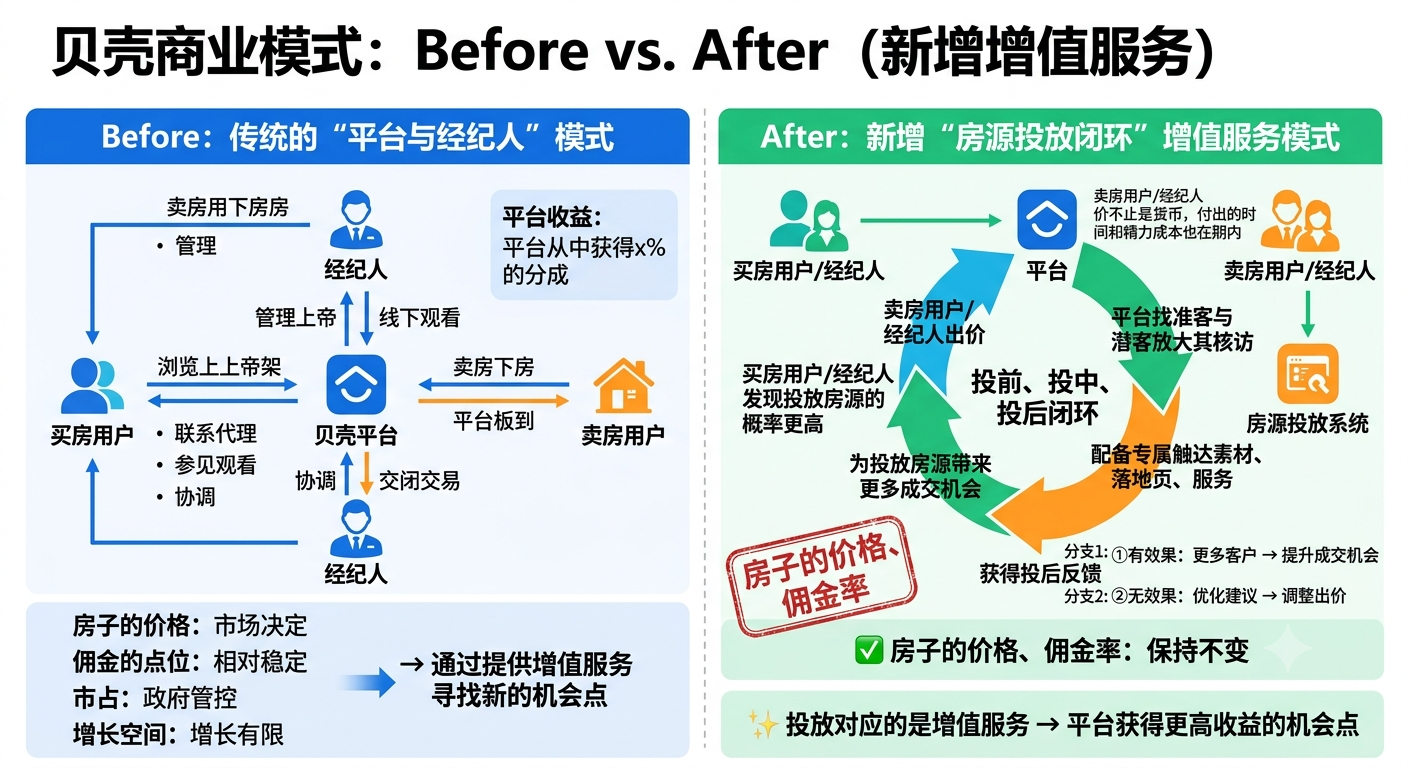
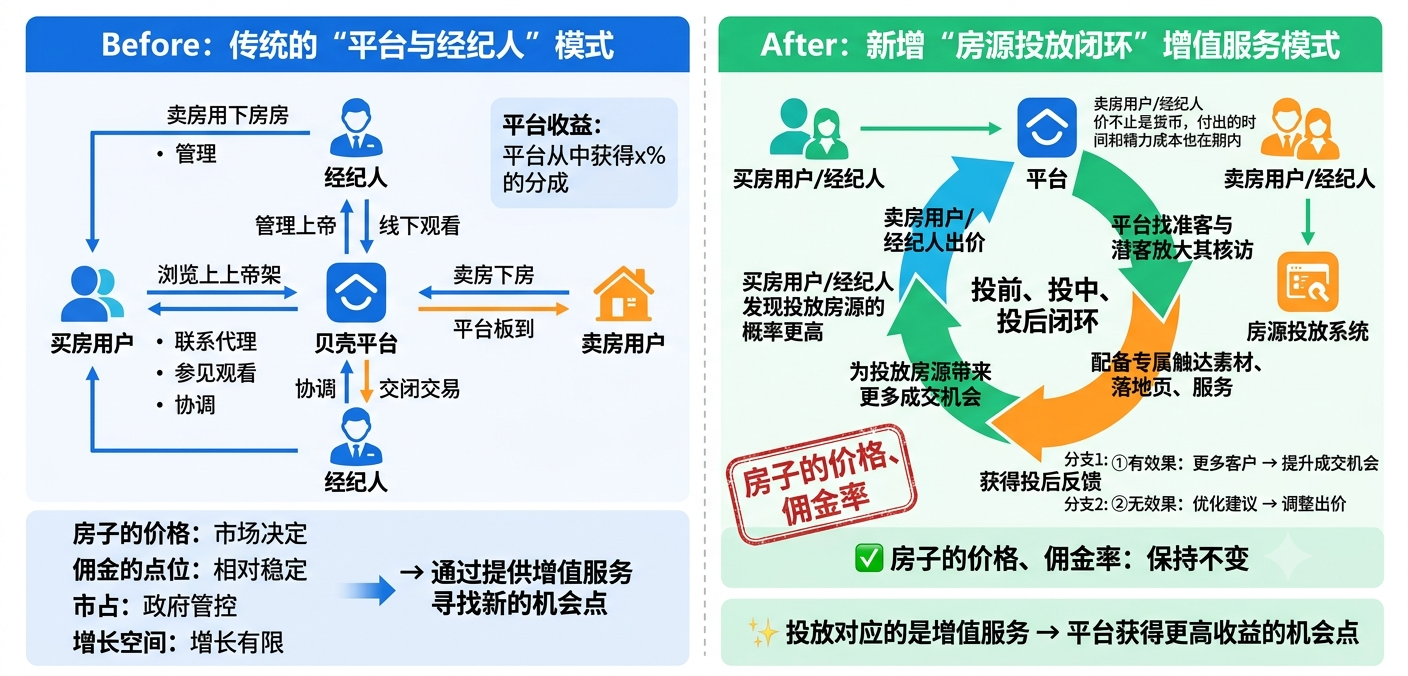
Crop image title band; remove 核心主张 callout; trim buyer-value bullet

diff --git a/keplus-mvp/index.html b/keplus-mvp/index.html
@@ -353,13 +353,11 @@
             <h4>三方价值</h4>
             <ul>
               <li>卖方：用出价换<b>更高成交确定性</b></li>
-              <li>买方：<b>更快找到对的房</b>（更易发现投放房源）</li>
+              <li>买方：<b>更易发现投放房源</b></li>
               <li>平台：在 x% 分成之外，<b>开辟增值服务新收益机会点</b></li>
             </ul>
           </div>
         </div>
-
-        <div class="callout callout-green"><strong>核心主张：</strong>房价与佣金率<strong>不变</strong>，投放是<strong>新增的增值服务</strong>，为平台打开更高收益的机会点。</div>
 
         <figure style="margin:18px 0 0">
           <img src="image.png" alt="贝壳商业模式 Before vs After（新增增值服务）" style="display:block;width:100%;max-width:920px;margin:0 auto;border:1px solid var(--line);border-radius:12px;box-shadow:0 14px 36px rgba(20,32,51,.10)">